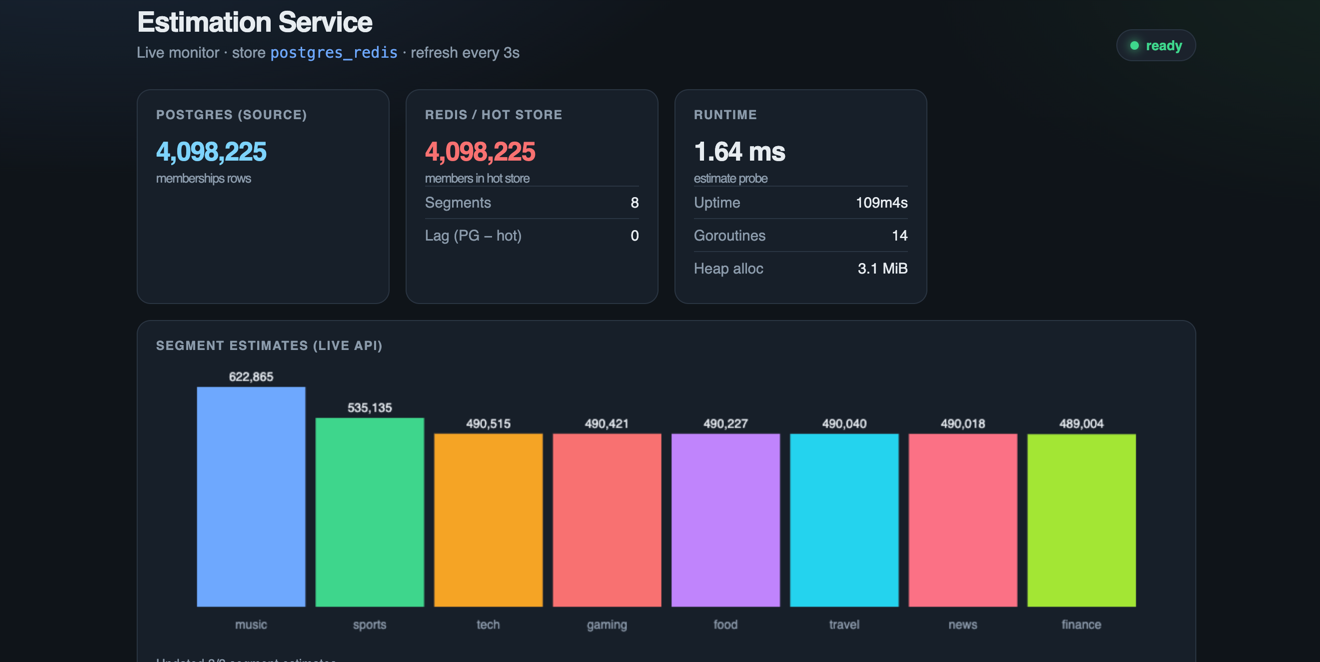
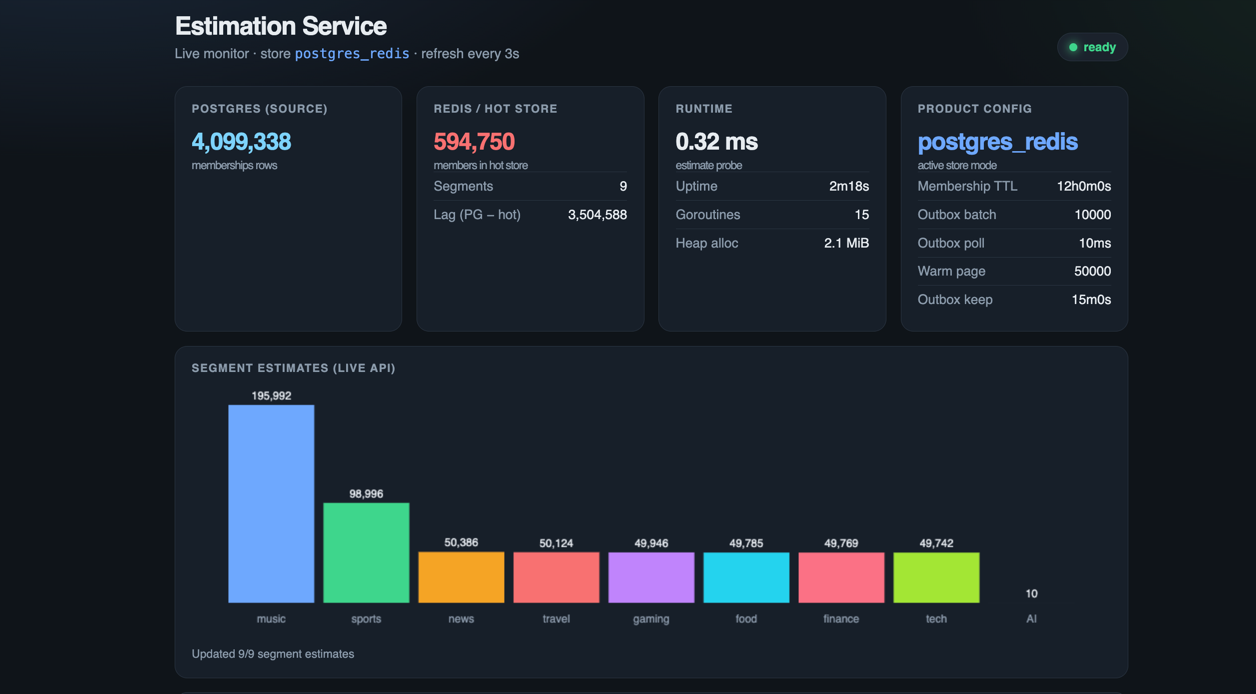
fix(redis): reject stale outbox scores

diff --git a/internal/segment/adapter/redis/repository_test.go b/internal/segment/adapter/redis/repository_test.go
@@ -71,6 +71,34 @@ func TestRepository_Upsert_RefreshesTaggedAt(t *testing.T) {
 	}
 }
 
+func TestRepository_Upsert_IgnoresStaleOlderTaggedAt(t *testing.T) {
+	repo, mr := newTestRepo(t)
+	ctx := context.Background()
+	newer := time.Date(2026, 2, 1, 12, 0, 0, 0, time.UTC)
+	older := newer.Add(-time.Hour)
+
+	mustUpsert(t, repo, segment.Membership{UserID: "u1", Segment: "sports", TaggedAt: newer})
+	mustUpsert(t, repo, segment.Membership{UserID: "u1", Segment: "sports", TaggedAt: older})
+
+	score, err := mr.ZScore("segment:sports", "u1")
+	if err != nil {
+		t.Fatal(err)
+	}
+	want := float64(newer.UnixNano())
+	if score != want {
+		t.Fatalf("score = %v, want newer %v (stale outbox must not regress)", score, want)
+	}
+
+	// Still active at newer+1h if score stayed at newer (TTL window from newer).
+	got, err := repo.CountActive(ctx, "sports", newer.Add(time.Hour))
+	if err != nil {
+		t.Fatal(err)
+	}
+	if got != 1 {
+		t.Fatalf("CountActive = %d, want 1 with preserved newer score", got)
+	}
+}
+
 func TestRepository_CountActive_EmptySegment(t *testing.T) {
 	repo, _ := newTestRepo(t)
 	got, err := repo.CountActive(context.Background(), "missing", time.Now().UTC())

diff --git a/internal/segment/adapter/redis/repository.go b/internal/segment/adapter/redis/repository.go
@@ -32,10 +32,13 @@ func NewRepository(client goredis.Cmdable, ttl time.Duration) *Repository {
 }
 
 func (r *Repository) Upsert(ctx context.Context, m segment.Membership) error {
-	score := float64(m.TaggedAt.UTC().UnixNano())
-	return r.client.ZAdd(ctx, key(m.Segment), goredis.Z{
-		Score:  score,
-		Member: m.UserID,
+	// GT: never let a stale outbox replay regress taggedAt after a newer write.
+	return r.client.ZAddArgs(ctx, key(m.Segment), goredis.ZAddArgs{
+		GT: true,
+		Members: []goredis.Z{{
+			Score:  float64(m.TaggedAt.UTC().UnixNano()),
+			Member: m.UserID,
+		}},
 	}).Err()
 }
 
@@ -58,10 +61,12 @@ func (r *Repository) UpsertBatch(ctx context.Context, ms []segment.Membership) [
 	pipe := p.Pipeline()
 	cmds := make([]*goredis.IntCmd, len(ms))
 	for i, m := range ms {
-		score := float64(m.TaggedAt.UTC().UnixNano())
-		cmds[i] = pipe.ZAdd(ctx, key(m.Segment), goredis.Z{
-			Score:  score,
-			Member: m.UserID,
+		cmds[i] = pipe.ZAddArgs(ctx, key(m.Segment), goredis.ZAddArgs{
+			GT: true,
+			Members: []goredis.Z{{
+				Score:  float64(m.TaggedAt.UTC().UnixNano()),
+				Member: m.UserID,
+			}},
 		})
 	}
 	_, _ = pipe.Exec(ctx)

diff --git a/internal/segment/service.go b/internal/segment/service.go
@@ -2,6 +2,7 @@ package segment
 
 import (
 	"context"
+	"log"
 	"runtime"
 	"time"
 )
@@ -120,9 +121,14 @@ func (s *Service) Reset(ctx context.Context) error {
 		go func() {
 			defer func() {
 				_ = s.hot.AfterWarm(context.Background())
+				// TODO(ops): on warm failure keep status=resetting (or a dedicated
+				// degraded state) instead of MarkReady, so estimate cannot return
+				// undercounts with HTTP 200. For now we only log and become ready.
 				s.ready.MarkReady()
 			}()
-			_ = s.hot.WarmFromSource(context.Background(), s.clock.Now())
+			if err := s.hot.WarmFromSource(context.Background(), s.clock.Now()); err != nil {
+				log.Printf("async warm failed (system marked ready anyway; see TODO): %v", err)
+			}
 		}()
 		return nil
 	}

diff --git a/internal/segment/adapter/postgresredis/doc.go b/internal/segment/adapter/postgresredis/doc.go
@@ -5,4 +5,8 @@
 // we use a transactional outbox in the same DB transaction as the membership
 // write. A background Worker (in-process ticker) projects pending rows to Redis
 // and reschedules failures with backoff — no separate failure table needed.
+//
+// Conscious ops trade-offs (also in README):
+//   - no boot-time warm: empty Redis after restart undercounts until admin reset
+//   - async warm errors are logged today; readiness still flips to ready (TODO)
 package postgresredis

diff --git a/internal/segment/adapter/redis/doc.go b/internal/segment/adapter/redis/doc.go
@@ -5,6 +5,7 @@
 //     ranges match that model better than relational rows
 //   - ingest and per-segment counts stay O(log N) for the segment, not full scans
 //   - expired members are pruned on read (ZREMRANGEBYSCORE)
+//   - Upsert uses ZADD GT so a stale outbox replay cannot regress taggedAt
 //
 // Swap this adapter for memory/Postgres at the composition root without changing
 // HTTP/gRPC or domain code.

diff --git a/README.md b/README.md
@@ -1,13 +1,15 @@
 # Estimation Service (Go Challenge)
 
+![health monitor](./img.png)
+
 Answers: **how many users are in segment X?**  
 A user stays in a segment for **two weeks** after being tagged; expired memberships are not counted.
 
+Live health dashboard: `GET /v1/health` in a browser (Postgres vs Redis totals, lag, per-segment estimates).
+
+Architecture:
+
 ![architecture](./Untitled%20Diagram.drawio.png)
-
-Live health dashboard (`GET /v1/health` in a browser) — Postgres vs Redis totals, lag, and per-segment estimates:
-
-![health monitor](./img.png)
 
 ## Quick start
 
@@ -133,7 +135,7 @@ Concurrent reset → `409`. Missing/invalid token → `401`.
 | **REST for estimate** | Simple read; easy to call with curl/browser; cache-friendly |
 | **Hexagonal + package-by-domain** | `internal/segment` owns model, ports, service; adapters under `adapter/{http,grpc,memory}` |
 | **`STORE` strategies** | Same `Repository` port; swap at composition root without touching HTTP/gRPC/domain |
-| **Redis sorted set** `segment:{name}` score=`taggedAt` | Ingest `ZADD`; estimate `ZCOUNT` + prune expired — fits TTL + per-segment scale |
+| **Redis sorted set** `segment:{name}` score=`taggedAt` | Ingest `ZADD GT` (never regress score); estimate `ZCOUNT` + prune expired — fits TTL + per-segment scale |
 | **Postgres + transactional outbox** | Durable history in Postgres; Redis is a projection. Outbox in the same TX beats “write Redis then failure table” |
 | **In-process outbox worker** | Pipelined Redis writes + batch mark-done; busy-drain when the queue is non-empty |
 | **Admin reset (no boot warm/flush)** | Startup stays fast; `POST /v1/admin/reset` rebuilds the hot store; estimate returns `503` while resetting |
@@ -152,6 +154,13 @@ Membership rule: active while `now - taggedAt < TTL`. Re-ingest of the same user
 - **Sharding:** not needed now. If Postgres history becomes huge, partition by `segment` or time and/or prune expired memberships; Redis can move to Cluster with hash-tagged keys later.
 - **Outbox retention:** in-process cleaner deletes processed rows older than `OUTBOX_CLEANUP_RETENTION` in batches.
 - **Reset warm:** keyset-paged `ListActivePage` + Redis pipelines — does not load all active rows into one Go slice.
+
+### Known trade-offs (called out on purpose)
+
+These are conscious for the challenge scope; not forgotten:
+
+1. **No automatic boot warm.** With `STORE=postgres_redis`, a fresh Redis (or wiped volume) starts `ready` with an empty hot cache while Postgres still holds history. New ingests refill via outbox; **full rebuild is `POST /v1/admin/reset`**. That keeps startup fast and avoids multi-million warm on every boot.
+2. **Async warm failure currently logs and still becomes `ready`.** Ideal follow-up: stay `resetting` / degraded so estimate cannot serve undercounts with `200` (see `TODO` in `Service.Reset`). Until then, check logs after reset if Redis looks incomplete.
 
 ## Layout
 

diff --git a/ai.md b/ai.md
@@ -257,6 +257,22 @@
 - **Evaluation:** Rebuilt and checked the dashboard in the browser.
 - **Fixes:** None.
 
+### Prompt #14
+
+- **Stage:** Code Review / Debugging
+- **Tool:** Cursor (Auto)
+- **Prompt:**
+
+  ```
+  Final check vs the challenge brief. Fix stale outbox overwriting newer Redis scores.
+  For failed async warm just log + TODO for now.
+  Document no-boot-warm and warm-fail trade-offs.
+  ```
+
+- **Result:** Redis `ZADD GT` so older outbox cannot regress `taggedAt`; warm errors logged with a TODO; README “Known trade-offs” for empty Redis on boot and warm-fail→ready.
+- **Evaluation:** New unit test for stale upsert; `go test ./...` green; read the README section myself.
+- **Fixes:** None beyond what I asked — kept warm-fail as log/TODO on purpose, not a full degraded state.
+
 ## 4. Token Usage Monitoring
 
 - **Monitoring method:** Mostly gut feel + Cursor chat length. I did not track exact token bills in a spreadsheet.
